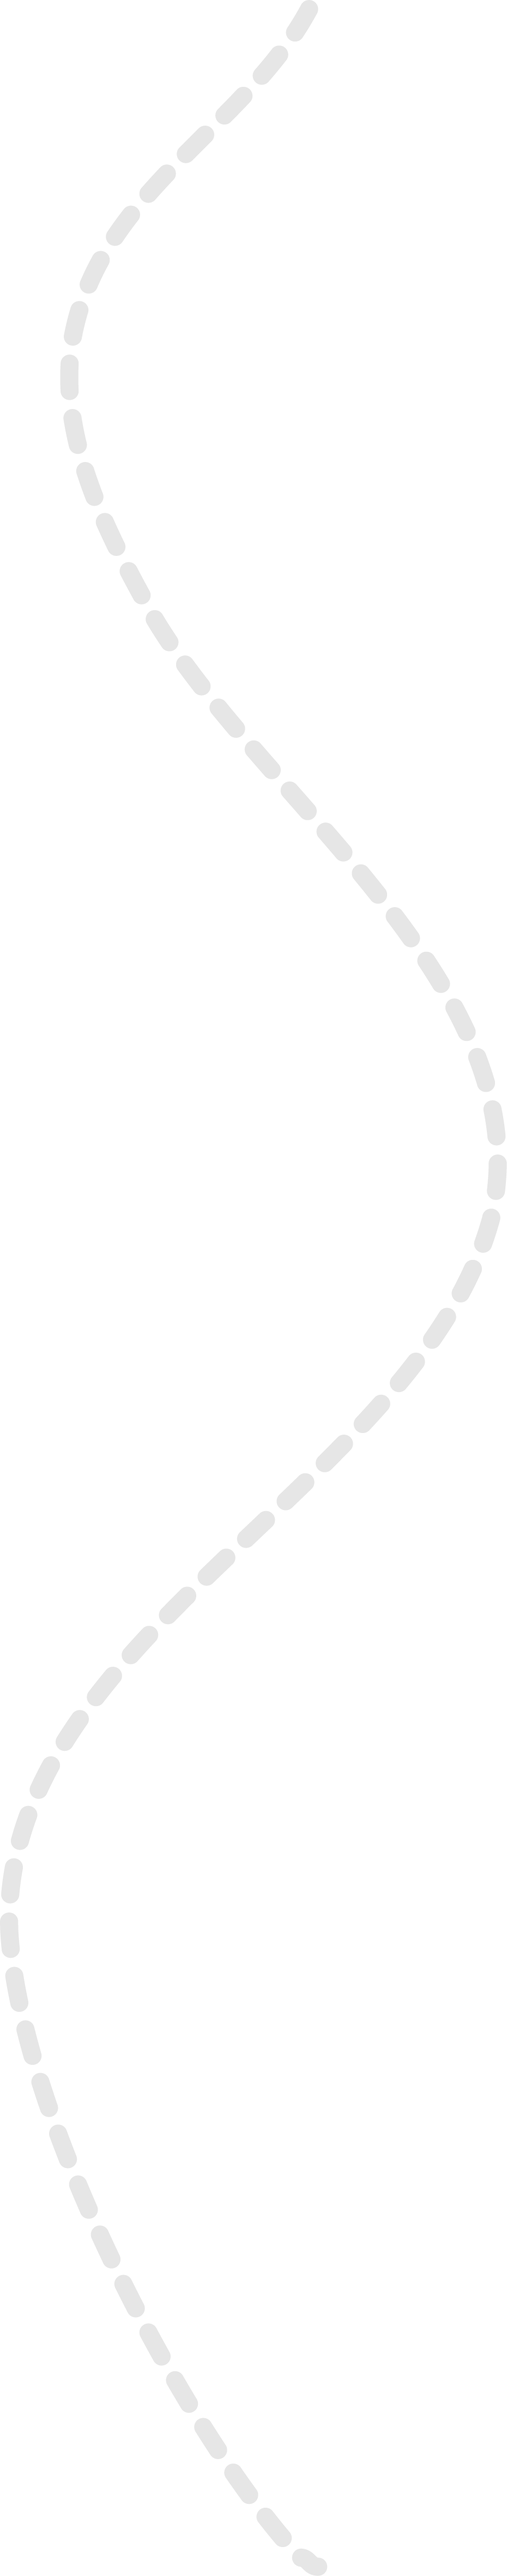
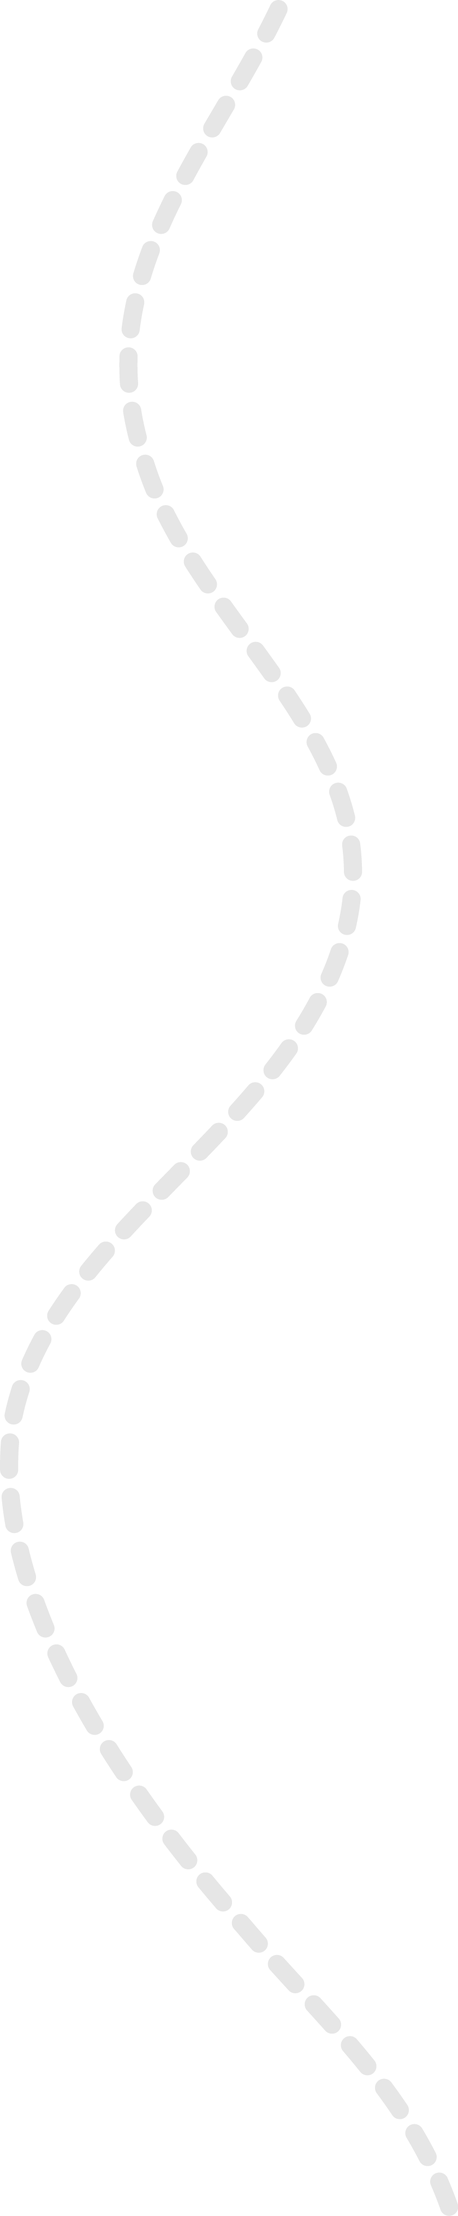
Added new images

diff --git a/css/style.css b/css/style.css
@@ -41,11 +41,8 @@ header{
 header .kiteImage{
 	position: absolute;
 	left: 145px;
-	right: auto;
 	top: 65px;
-	bottom: 0;
 	height: 90%;
-	background-color: #DAEEF2;
 }
 
 header .center-helper{
@@ -62,7 +59,6 @@ header nav{
 header nav > a{
 	position: relative;
 	display: inline-block;
-	height: 44px;
 	line-height: 44px;
 	margin-left: 20px;
 	margin-right: 20px;
@@ -104,7 +100,6 @@ header p{
 header h1{
 	font-size: 80px;
 	color: #007991;
-	margin: -20px 0 7px 0;
 	font-family: Comfortaa-Bold;
 	margin-top: 80px;
 }
@@ -123,24 +118,23 @@ header p > b{
 	font-weight: 400;
 }
 
-
 header > .center-helper > .headerTextWrapper > a {
 	display: block;
 	height: 60px;
 	width: 200px;
 	line-height: 60px;
+	margin: 0 auto;
+	margin-top: 70px;
 	text-align: center;
 	border-radius: 10px;
 	background-color: #007991;
 	border: 1px solid #007991;
 	color: #fff;
 	text-decoration: none;
-	margin: 0 auto;
 	font-size: 17px;
 	letter-spacing: 3px;
 	outline: none!important;
 	cursor: pointer;
-	margin-top: 70px;
 }
 
 header > .center-helper > .headerTextWrapper > a:focus{
@@ -152,7 +146,6 @@ header .cloudImage {
 	display: inline-block;
 	top: 263px;
 	right: 100px;
-	bottom: 0;
 	height: 30%;
 }
 
@@ -162,9 +155,7 @@ header .cloudImage {
 
 #aboutSection {
 	background-color: #fcffff;
-	padding: 128px 0 128px 0;
 	height: 600px;
-	overflow: hidden;
 }
 
 #aboutSection > .center-helper > .stringImage {
@@ -172,8 +163,9 @@ header .cloudImage {
 	display: inline-block;
 	left: 20px;
 	height: 100%;
+	
 }
-
+	
 #aboutSection > .center-helper > .cloud2Image {
 	position: absolute;
 	display: inline-block;
@@ -185,10 +177,9 @@ header .cloudImage {
 #aboutSection > .center-helper > .cloud3Image {
 	position: absolute;
 	display: inline-block;
-	top: 460px;
-	right: 240px;
-	bottom: 0;
-	height: 25%;
+	top: 420px;
+	right: 140px;
+	height: 18%;
 }
 
 #aboutSection > .center-helper > h1,
@@ -202,6 +193,7 @@ header .cloudImage {
 	color: rgba( 0, 0, 0, 0.6);
 	font-size: 46px;
 	margin-bottom: 20px;
+	margin-top: 128px;
 }
 
 #aboutSection > .center-helper > h2{
@@ -226,21 +218,28 @@ header .cloudImage {
 
 #contactSection {
 	background-color: #DAEEF2;
-	padding: 128px 0 128px 0;
-	height: 750px;
+	height: 700px;
 }
 
 .zIndexFix {
 	position: absolute;
 	z-index: 1000;
 	width: 100%;
-	max-width: 1000px
+	max-width: 1000px;
+}
+
+.string2image {
+	position: absolute;
+	display: inline-block;
+	height: 100%;
+	left: 132px;
 }
 
 #contactSection > .zIndexFix > h1{
 	color: #007991;
 	font-size: 46px;
 	text-align: center;
+	margin-top: 128px;
 }
 
 #contactSection > .zIndexFix > p {
@@ -257,7 +256,6 @@ header .cloudImage {
 	display: inline-block;
 	top: 110px;
 	right: 70px;
-	bottom: 0;
 	height: 15%;
 	z-index: 800;
 }
@@ -266,8 +264,7 @@ header .cloudImage {
 	position: absolute;
 	display: inline-block;
 	top: 500px;
-	right: 160px;
-	bottom: 0;
+	right: 80px;
 	height: 10%;
 	z-index: 800;
 }
@@ -291,7 +288,7 @@ header .cloudImage {
 
 #contactUsForm > input[type="text"] {
 	height: 40px;
-    width: 49%;
+    width: 49.5%;
     padding: 0 10px 0 10px;
 	background-color: rgba(255,255,255,0.7);
 }
@@ -338,12 +335,10 @@ border-color: #90caf9;
 
 footer{
 	background: #333333;
-	padding: 128px 0 128px 0;
 }
 
 footer > h1{
 	display: block;
-	width: 100%;
 	text-align: center;
 	font-size: 42px;
     color: rgba(255,255,255,0.9);
@@ -353,7 +348,6 @@ footer > h1{
 
 footer > p{
 	display: block;
-	width: 100%;
 	text-align: center;
 	font-size: 17px;
 	letter-spacing: 2px;
@@ -389,6 +383,11 @@ footer  > h4{
 }
 
 /*End region Footer*/
+
+@media screen and (max-width: 1200px){
+	
+}
+
 
 
 

diff --git a/index.html b/index.html
@@ -23,7 +23,7 @@
 		<link rel="icon" href="icon.png" type="image/x-icon" />
 	</head>
 	<body>
-		<header class="jumbojet box-sizing padding40" >
+		<header class="jumbojet box-sizing" >
 			<img class="kiteImage" src="images/kite.png" />
 			<div class="center-helper">
 				<nav>
@@ -42,7 +42,7 @@
 			</div>
 		</header>
 		
-		<section id="aboutSection" class="jumbojet box-sizing padding40" >
+		<section id="aboutSection" class="jumbojet box-sizing" >
 			<div class="center-helper" >
 				<img class="stringImage" src="images/string.png" />
 				<img class="cloud2Image" src="images/Cloud_4.png" />
@@ -60,26 +60,27 @@
 			</div>
 		</section>
 		
-		<section id="contactSection" class="jumbojet box-sizing padding40">
-				<div class="horizontal-center zIndexFix">
-					<h1>Contact us</h1>
-					<p>If you have anything that you would like to ask us, <br>
-					we are more than happy to provide you with even more information than you have asked for. <br>
-					Send us an email so we can schedule a meeting.</p>
+		<section id="contactSection" class="jumbojet box-sizing">
+			<img class="string2image" src="images/string2.png" />
+			<div class="horizontal-center zIndexFix">
+				<h1>Contact us</h1>
+				<p>If you have anything that you would like to ask us, <br>
+				we are more than happy to provide you with even more information than you have asked for. <br>
+				Send us an email so we can schedule a meeting.</p>
 					
-					<form id="contactUsForm" class="horizontal-center">
-						<input class="animated box-sizing left" type="text" placeholder="Your name...">
-						<input class="animated box-sizing right" type="text" placeholder="Your e-mail...">
-						<textarea class="animated box-sizing" placeholder="Your message..."></textarea>
-						<button id="submitEmailButton">SEND E-MAIL</button>
-					</form>	
-				</div>
+				<form id="contactUsForm" class="horizontal-center">
+					<input class="animated box-sizing left" type="text" placeholder="Your name...">
+					<input class="animated box-sizing right" type="text" placeholder="Your e-mail...">
+					<textarea class="animated box-sizing" placeholder="Your message..."></textarea>
+					<button id="submitEmailButton">SEND E-MAIL</button>
+				</form>	
+			</div>
 				
 				<img class="cloud4Image" src="images/Cloud_5.png" />
 				<img class="cloud5Image" src="images/Cloud_2.png" />
 		</section>
 		
-		<footer id="footerSection" class="jumbojet box-sizing padding40" >
+		<footer id="footerSection" class="jumbojet box-sizing" >
 			<h1>Get in touch</h1>
 			<p>IF YOU ARE INTERESTED IN OUR WORK, BE SURE TO FOLLOW US!</p>
 			<div class="socialWrapper" >

diff --git a/css/libs/atom.min.css b/css/libs/atom.min.css
@@ -1,14 +1,1 @@
-.box-sizing{-moz-box-sizing:border-box;-webkit-box-sizing:border-box;box-sizing:border-box}
-.jumbojet{position:relative;display:block;width:100%;overflow:hidden}
-.left,
-.right{position:relative;display:inline-block;width:50%;height:100%}
-.center-helper,
-.relative-hack{position:relative;display:block;width:100%;height:100%}
-.left{float:left}.right{float:right}
-.center-helper{max-width:1200px;margin:0 auto}
-.horizontal-center{left:50%;transform:translateX(-50%)}
-.vertical-center{top:50%;transform:translateY(-50%)}
-.full-center{top:50%;left:50%;transform:translateX(-50%) translateY(-50%)}
-.fader{position:absolute;top:0;bottom:0;left:0;right:0;background-color:rgba(0,0,0,.5);display:none}
-.transition{transition:.3s ease-in-out}
-.user-select-none{-webkit-user-select:none;-moz-user-select:none;-ms-user-select:none;user-select:none}
+.box-sizing{-moz-box-sizing:border-box;-webkit-box-sizing:border-box;box-sizing:border-box}.jumbojet{position:relative;display:block;width:100%;overflow:hidden}.left,.right{position:relative;display:inline-block;width:50%;height:100%}.center-helper,.relative-hack{position:relative;display:block;width:100%;height:100%}.left{float:left}.right{float:right}.center-helper{max-width:1200px;margin:0 auto}.horizontal-center{left:50%;transform:translateX(-50%)}.vertical-center{top:50%;transform:translateY(-50%)}.full-center{top:50%;left:50%;transform:translateX(-50%) translateY(-50%)}.fader{position:absolute;top:0;bottom:0;left:0;right:0;background-color:rgba(0,0,0,.5);display:none}.transition{transition:.3s ease-in-out}.user-select-none{-webkit-user-select:none;-moz-user-select:none;-ms-user-select:none;user-select:none}
